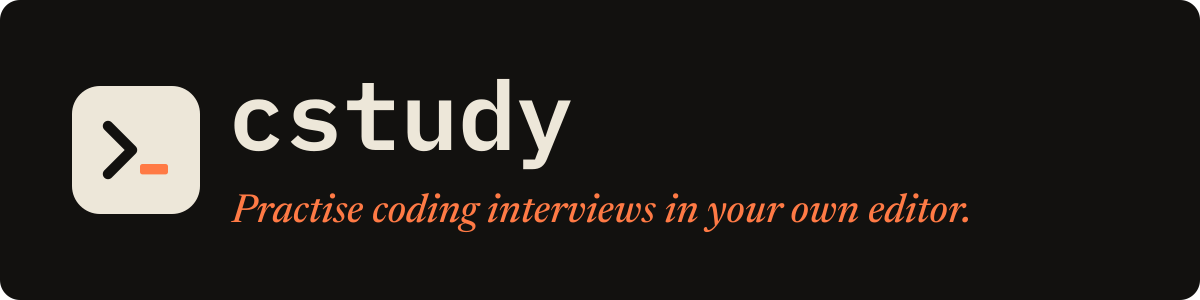
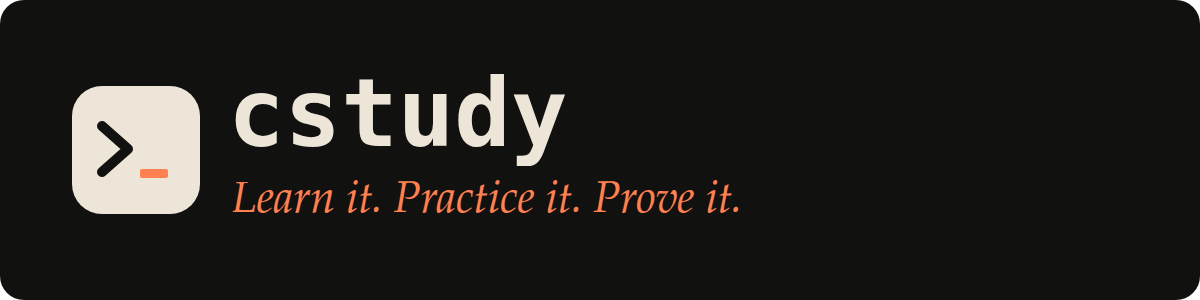
docs: present cstudy as a study app

diff --git a/tools/brand/readme-header.html b/tools/brand/readme-header.html
@@ -1,0 +1,58 @@
+<!doctype html>
+<html lang="en">
+<head>
+<meta charset="utf-8">
+<title>cstudy README header</title>
+<style>
+  html, body { margin: 0; background: transparent; }
+  .card {
+    position: relative;
+    width: 1200px;
+    height: 300px;
+    box-sizing: border-box;
+    border-radius: 24px;
+    background: #111110;
+    overflow: hidden;
+  }
+  .icon {
+    position: absolute;
+    left: 72px;
+    top: 86px;
+    width: 128px;
+    height: 128px;
+    border-radius: 30px;
+    background: #ede6d8;
+  }
+  .icon svg { display: block; }
+  .name {
+    position: absolute;
+    left: 228px;
+    top: 58px;
+    margin: 0;
+    font: 700 94px/1.2 "JetBrains Mono", "DejaVu Sans Mono", "Liberation Mono", monospace;
+    color: #ede6d8;
+    letter-spacing: 0;
+  }
+  .tagline {
+    position: absolute;
+    left: 232px;
+    top: 176px;
+    margin: 0;
+    font: italic 400 44px/1.2 "EB Garamond", "Cormorant Garamond", "P052", "Palatino Linotype", Palatino, Charter, Georgia, serif;
+    color: #ff8050;
+  }
+</style>
+</head>
+<body>
+<div class="card">
+  <div class="icon">
+    <svg width="128" height="128" viewBox="0 0 128 128" fill="none">
+      <path d="M30 40 L56 63 L30 86" stroke="#111110" stroke-width="10" stroke-linecap="round" stroke-linejoin="round"/>
+      <rect x="68" y="83" width="28" height="9" rx="2" fill="#ff8050"/>
+    </svg>
+  </div>
+  <p class="name">cstudy</p>
+  <p class="tagline">Learn it. Practice it. Prove it.</p>
+</div>
+</body>
+</html>

diff --git a/tools/brand/render_readme_header.py b/tools/brand/render_readme_header.py
@@ -1,0 +1,29 @@
+"""Render tools/brand/readme-header.html to docs/images/readme-header.png.
+
+Run from the repository root:
+
+    uv run --group browser python tools/brand/render_readme_header.py
+
+The card is 1200x300 pixels with transparent rounded corners.
+"""
+
+from pathlib import Path
+
+from playwright.sync_api import sync_playwright
+
+ROOT = Path(__file__).resolve().parents[2]
+TEMPLATE = ROOT / "tools" / "brand" / "readme-header.html"
+OUTPUT = ROOT / "docs" / "images" / "readme-header.png"
+
+
+def main() -> None:
+    with sync_playwright() as playwright:
+        browser = playwright.chromium.launch()
+        page = browser.new_page(viewport={"width": 1200, "height": 300}, device_scale_factor=1)
+        page.goto(TEMPLATE.as_uri())
+        page.locator(".card").screenshot(path=str(OUTPUT), omit_background=True)
+        browser.close()
+
+
+if __name__ == "__main__":
+    main()

diff --git a/cli/src/coding_study/entrypoints/cli.py b/cli/src/coding_study/entrypoints/cli.py
@@ -16,7 +16,7 @@ from coding_study.entrypoints.shared import CsGroup, GlobalOptions
 app = typer.Typer(
     cls=CsGroup,
     name="cstudy",
-    help="Local, IDE-first interview practice.",
+    help="The free study app for engineers: learn it, practice it, prove it.",
     no_args_is_help=True,
     add_completion=False,
 )

diff --git a/README.md b/README.md
@@ -1,4 +1,4 @@
-[![cstudy: practice coding interviews in your own editor](docs/images/readme-header.png)](https://coding-study.com/?utm_source=github&utm_medium=readme&utm_campaign=coding-study&utm_content=header)
+[![cstudy: Learn it. Practice it. Prove it.](docs/images/readme-header.png)](https://coding-study.com/?utm_source=github&utm_medium=readme&utm_campaign=coding-study&utm_content=header)
 
 [![CI](https://github.com/bkuberek/coding-study/actions/workflows/ci.yml/badge.svg?branch=main)](https://github.com/bkuberek/coding-study/actions/workflows/ci.yml)
 [![Release](https://img.shields.io/github/v/release/bkuberek/coding-study)](https://github.com/bkuberek/coding-study/releases/latest)
@@ -7,7 +7,7 @@
 
 # coding-study
 
-coding-study is a local, IDE-first study tool for everyone who writes code, from beginners to experts, covering algorithms, backend design, interview practice, and security and AI problems. You solve original problems in your own editor in Python, TypeScript, Java, Kotlin, Go, or Rust, and the `cstudy` command line tests your code, checks whether it is optimal, shows reference solutions, and schedules reviews with spaced repetition. Everything runs on your machine; there is no account and no service.
+**The free study app for engineers: algorithms to system design, graded by real tests, on your own machine.** coding-study is a local, IDE-first study tool for everyone who writes code, from beginners to experts, covering algorithms, backend design, concurrency, code review, and security and AI problems. You solve original problems in your own editor in Python, TypeScript, Java, Kotlin, Go, or Rust, and the `cstudy` command line tests your code, checks whether it is optimal, shows reference solutions, and schedules reviews with spaced repetition. Everything runs on your machine; there is no account and no service.
 
 The website, [coding-study.com](https://coding-study.com/?utm_source=github&utm_medium=readme&utm_campaign=coding-study&utm_content=intro), has the [install guide](https://coding-study.com/install?utm_source=github&utm_medium=readme&utm_campaign=coding-study&utm_content=intro) and the [usage docs](https://coding-study.com/docs?utm_source=github&utm_medium=readme&utm_campaign=coding-study&utm_content=intro).
 

diff --git a/user-docs/problem-kinds.md b/user-docs/problem-kinds.md
@@ -7,7 +7,7 @@ order: 55
 
 # Kinds of problems
 
-Every problem has a **track**, the interview round it practices, and a **kind**, the shape of what you write. How it is checked follows from its kind, and three **labels** say what it is about, who it is for and how big it is. `cstudy list` shows each, and filters by each:
+Every problem has a **track**, the area of engineering it practices, and a **kind**, the shape of what you write. How it is checked follows from its kind, and three **labels** say what it is about, who it is for and how big it is. `cstudy list` shows each, and filters by each:
 
 ```bash
 cstudy list --track concurrency

diff --git a/user-docs/planning.md b/user-docs/planning.md
@@ -1,6 +1,6 @@
 ---
 title: Plan your practice
-summary: What cstudy next picks and why, problem sets for an interview or a topic, timed mock interviews, and your progress in numbers.
+summary: What cstudy next picks and why, problem sets for a goal or a topic, timed mock interviews, and your progress in numbers.
 section: Practice
 order: 90
 ---
